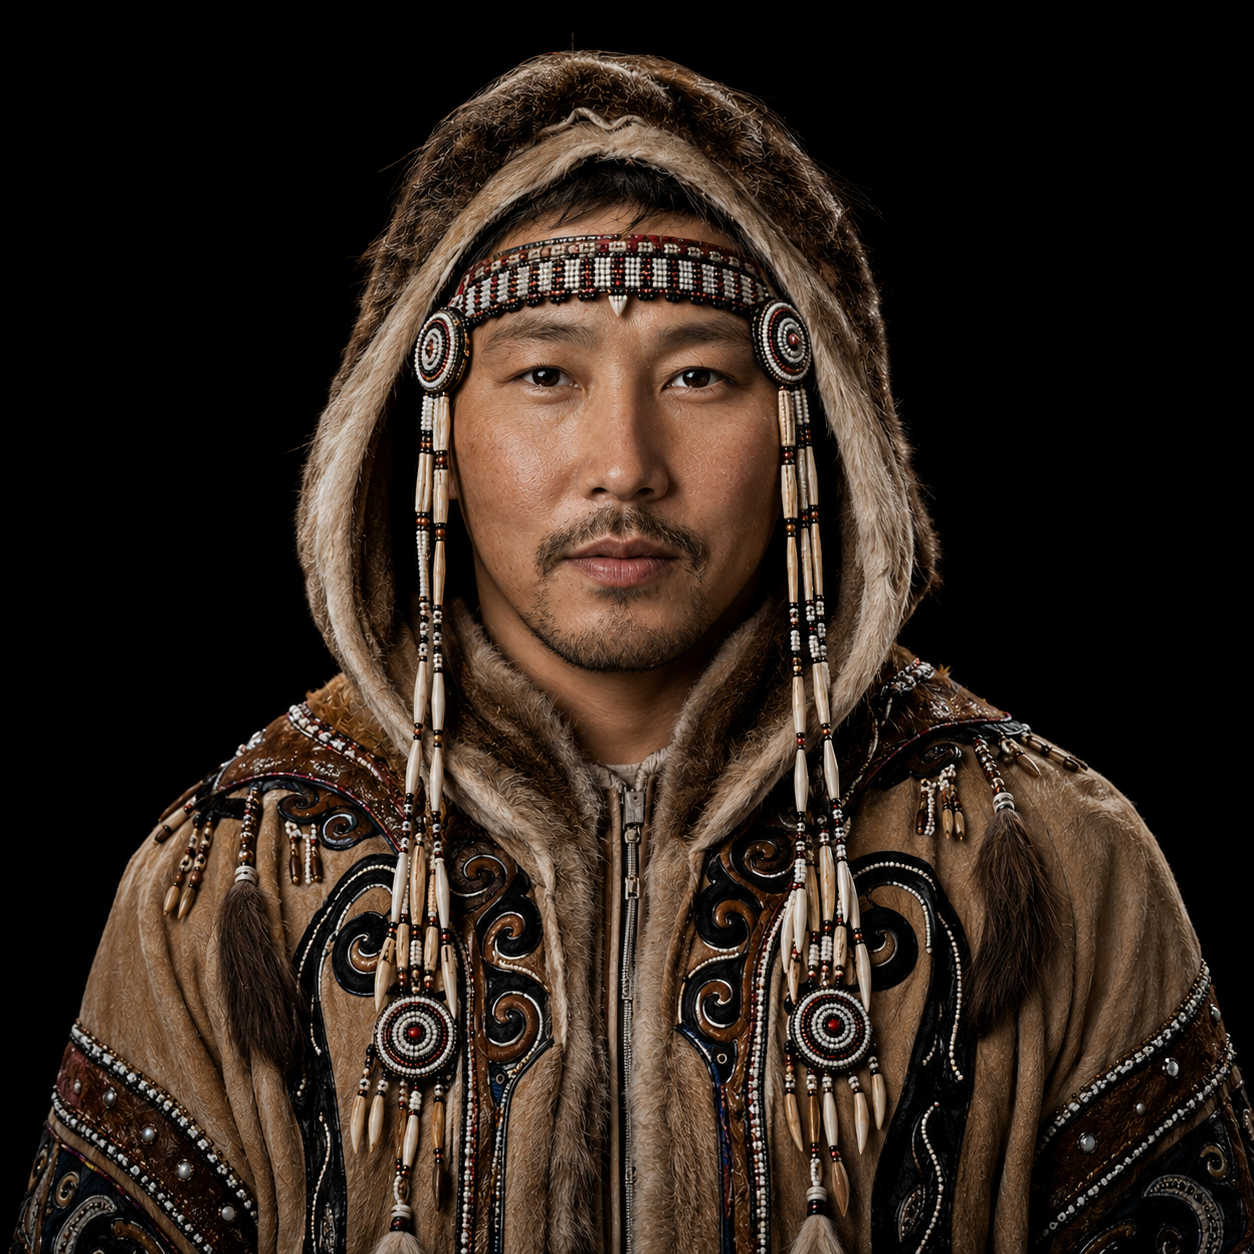
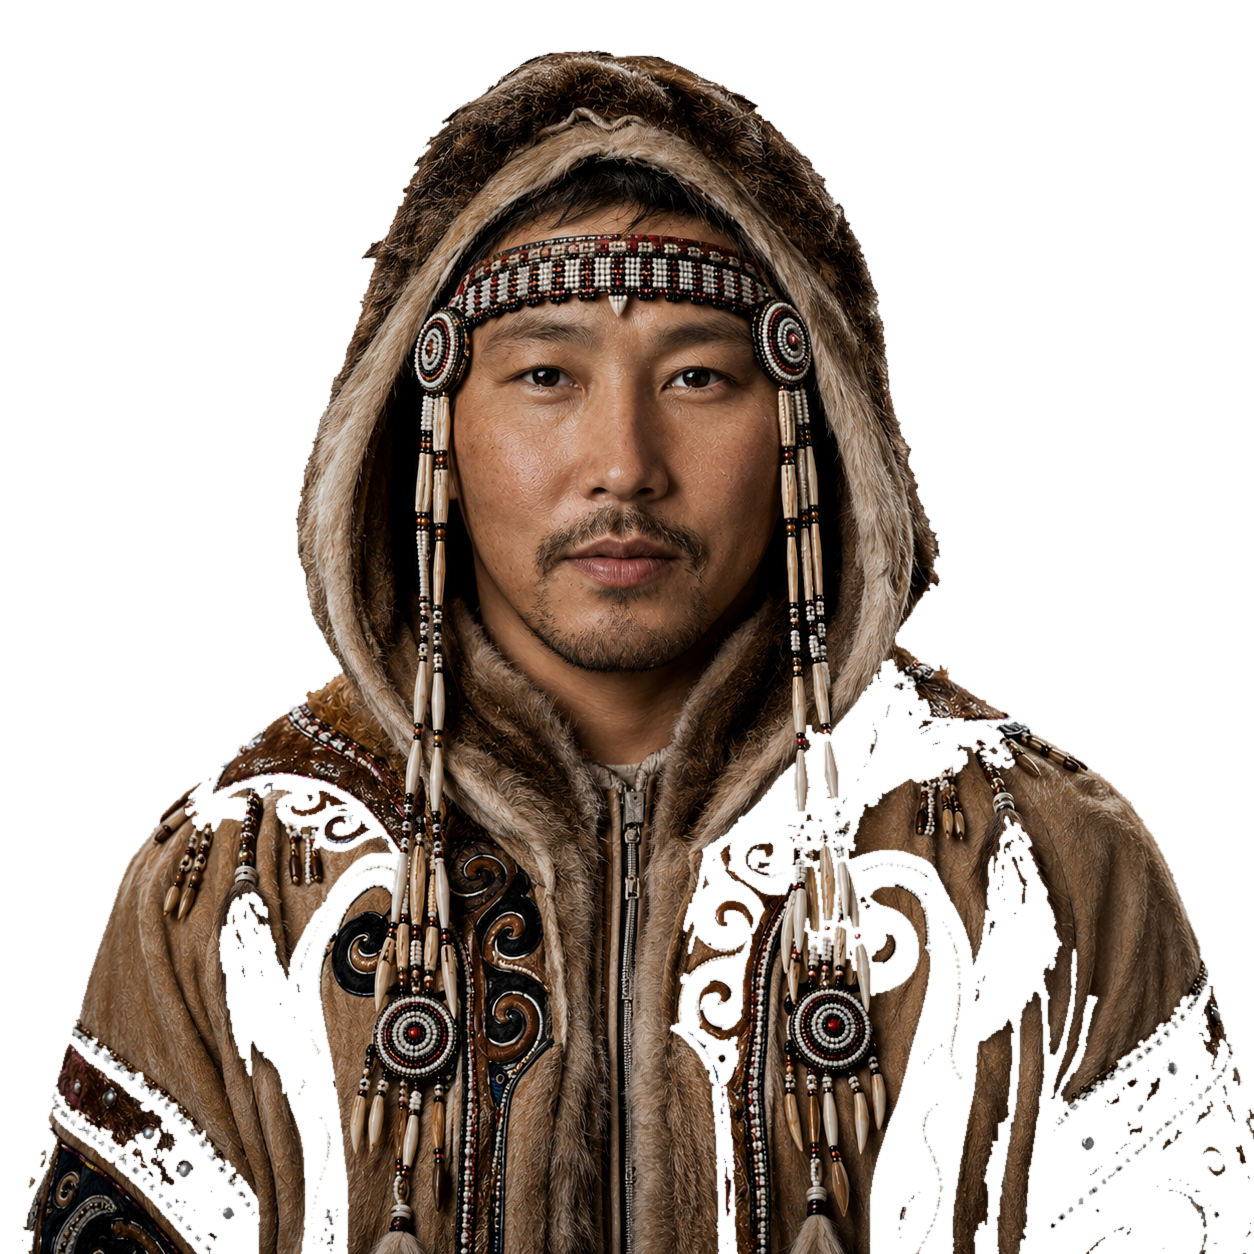
Polish hero and portrait cutouts

diff --git a/styles.css b/styles.css
@@ -131,7 +131,7 @@ button {
   }
 
   to {
-    opacity: 0.9;
+    opacity: 0.8;
     filter: saturate(1.04) contrast(1.05) blur(0);
   }
 }
@@ -360,7 +360,7 @@ button {
   bottom: -3vw;
   z-index: -2;
   width: min(1220px, 76vw);
-  opacity: 0.9;
+  opacity: 0.8;
   filter: saturate(1.04) contrast(1.05);
   transform:
     translate3d(var(--hero-shift-x), var(--hero-shift-y), 0)
@@ -426,7 +426,7 @@ button {
 .hero-copy p:not(.overline) {
   max-width: 620px;
   margin: 30px 0 0;
-  color: var(--muted);
+  color: var(--white);
   font-size: clamp(18px, 2vw, 24px);
   line-height: 1.45;
   text-wrap: pretty;
@@ -3526,6 +3526,7 @@ button {
   .people-card p {
     font-size: 13px;
     line-height: 1.32;
+    max-height: calc(13px * 1.32 * 4);
     overflow: hidden;
     -webkit-line-clamp: 4;
   }
@@ -3555,8 +3556,8 @@ button {
   }
 
   .card-body {
-    grid-template-rows: 52px 78px;
-    min-height: 142px;
+    grid-template-rows: 52px calc(13px * 1.32 * 4);
+    min-height: 130px;
   }
 
   .article-preview {
@@ -3765,8 +3766,7 @@ button {
     transform: translate(-50%, -50%) rotate(-5deg);
   }
 
-  html::before,
-  html::after {
+  html::before {
     position: fixed;
     left: 0;
     z-index: 12;
@@ -3779,12 +3779,6 @@ button {
     top: 0;
     height: calc(132px + env(safe-area-inset-top, 0px));
     background: linear-gradient(180deg, #000 0%, rgba(0, 0, 0, 0.88) 34%, rgba(0, 0, 0, 0) 100%);
-  }
-
-  html::after {
-    bottom: -1px;
-    height: calc(118px + env(safe-area-inset-bottom, 0px));
-    background: linear-gradient(0deg, #000 0%, rgba(0, 0, 0, 0.78) 30%, rgba(0, 0, 0, 0) 100%);
   }
 
   .atlas::after {
